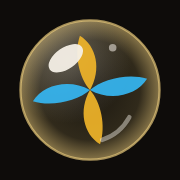
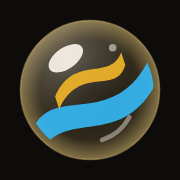
Brand polish: drop symbol ribbon is two S-ribbons (no pinwheel), thinner gold rim; compact drop gets one ribbon

Changed region(s): [[0.0833, 0.0833, 0.9167, 0.9167]]

diff --git a/MarbleRush2D/index.html b/MarbleRush2D/index.html
@@ -38,8 +38,8 @@
       <radialGradient id="gGl" cx="50%" cy="50%" r="50%"><stop offset="0" style="stop-color:var(--celebrate);stop-opacity:.06"/><stop offset=".72" style="stop-color:var(--celebrate);stop-opacity:.16"/><stop offset="1" style="stop-color:var(--celebrate);stop-opacity:.55"/></radialGradient>
       <radialGradient id="gTl" cx="34%" cy="28%" r="46%"><stop offset="0" style="stop-color:var(--light);stop-opacity:.28"/><stop offset="1" style="stop-color:var(--light);stop-opacity:0"/></radialGradient>
       <clipPath id="cpG"><circle cx="50" cy="50" r="42"/></clipPath>
-      <symbol id="g-d" viewBox="0 0 100 100"><circle cx="50" cy="50" r="46" style="fill:var(--bg);fill-opacity:.55"/><circle cx="50" cy="50" r="46" style="fill:url(#gGl)"/><circle cx="50" cy="50" r="46" style="fill:url(#gTl)"/><g clip-path="url(#cpG)"><g transform="rotate(-20 50 50)"><path d="M50 50 C 40 38, 22 36, 12 44 C 22 52, 40 54, 50 50 Z M50 50 C 60 62, 78 64, 88 56 C 78 48, 60 46, 50 50 Z" style="fill:var(--m-frs);opacity:.92"/><path d="M50 50 C 38 60, 36 76, 44 86 C 52 76, 54 60, 50 50 Z M50 50 C 62 40, 64 24, 56 14 C 48 24, 46 40, 50 50 Z" style="fill:var(--m-bul);opacity:.92"/></g></g><path d="M76 68 A 32 32 0 0 1 58 83" style="fill:none;stroke:var(--light);stroke-width:3;stroke-linecap:round;opacity:.45"/><circle cx="50" cy="50" r="46" style="fill:none;stroke:var(--celebrate);stroke-width:1.5;opacity:.7"/><ellipse cx="34" cy="29" rx="13" ry="7" transform="rotate(-35 34 29)" style="fill:var(--light);opacity:.95"/><circle cx="65" cy="22" r="2.5" style="fill:var(--light);opacity:.55"/></symbol>
-      <symbol id="g-cd" viewBox="0 0 100 100"><circle cx="50" cy="50" r="46" style="fill:var(--bg);fill-opacity:.55"/><circle cx="50" cy="50" r="46" style="fill:url(#gGl)"/><circle cx="50" cy="50" r="46" style="fill:url(#gTl)"/><g clip-path="url(#cpG)"><g transform="rotate(-20 50 50)"><path d="M50 50 C 38 60, 36 76, 44 86 C 52 76, 54 60, 50 50 Z M50 50 C 62 40, 64 24, 56 14 C 48 24, 46 40, 50 50 Z" transform="rotate(70 50 50) translate(50 50) scale(1.15) translate(-50 -50)" style="fill:var(--celebrate)"/></g></g><circle cx="50" cy="50" r="46" style="fill:none;stroke:var(--celebrate);stroke-width:5;opacity:.7"/><ellipse cx="34" cy="29" rx="16" ry="9" transform="rotate(-35 34 29)" style="fill:var(--light);opacity:.95"/></symbol>
+      <symbol id="g-d" viewBox="0 0 100 100"><circle cx="50" cy="50" r="46" style="fill:var(--bg);fill-opacity:.55"/><circle cx="50" cy="50" r="46" style="fill:url(#gGl)"/><circle cx="50" cy="50" r="46" style="fill:url(#gTl)"/><g clip-path="url(#cpG)"><g transform="rotate(-18 50 50)"><path d="M4 60 C 26 28, 56 78, 96 34 L 96 50 C 58 92, 28 46, 4 76 Z" transform="translate(0 6)" style="fill:var(--m-frs);opacity:.92"/><path d="M4 60 C 26 28, 56 78, 96 34 L 96 50 C 58 92, 28 46, 4 76 Z" transform="translate(2 -3) rotate(180 50 50) translate(50 50) scale(.55) translate(-50 -50)" style="fill:var(--m-bul);opacity:.92"/></g></g><path d="M76 68 A 32 32 0 0 1 58 83" style="fill:none;stroke:var(--light);stroke-width:3;stroke-linecap:round;opacity:.45"/><circle cx="50" cy="50" r="46" style="fill:none;stroke:var(--celebrate);stroke-width:1;opacity:.4"/><ellipse cx="34" cy="29" rx="13" ry="7" transform="rotate(-35 34 29)" style="fill:var(--light);opacity:.95"/><circle cx="65" cy="22" r="2.5" style="fill:var(--light);opacity:.55"/></symbol>
+      <symbol id="g-cd" viewBox="0 0 100 100"><circle cx="50" cy="50" r="46" style="fill:var(--bg);fill-opacity:.55"/><circle cx="50" cy="50" r="46" style="fill:url(#gGl)"/><circle cx="50" cy="50" r="46" style="fill:url(#gTl)"/><g clip-path="url(#cpG)"><g transform="rotate(-18 50 50)"><path d="M4 60 C 26 28, 56 78, 96 34 L 96 56 C 58 98, 28 50, 4 82 Z" style="fill:var(--celebrate)"/></g></g><circle cx="50" cy="50" r="46" style="fill:none;stroke:var(--celebrate);stroke-width:2.5;opacity:.5"/><ellipse cx="34" cy="29" rx="16" ry="9" transform="rotate(-35 34 29)" style="fill:var(--light);opacity:.95"/></symbol>
       <symbol id="hybs-d" viewBox="0 0 64 64"><circle cx="8" cy="12" r="5" style="fill:var(--m-blz)"/><circle cx="18" cy="26" r="5" style="fill:var(--m-frs)"/><circle cx="46" cy="26" r="5" style="fill:var(--m-vnm)"/><circle cx="56" cy="12" r="5" style="fill:var(--m-roy)"/><use href="#g-d" x="15" y="29.5" width="34" height="34"/></symbol>
       <symbol id="drop2c-d" viewBox="0 0 64 64"><use href="#g-cd" x="2" y="2" width="60" height="60"/></symbol>
     </defs>
